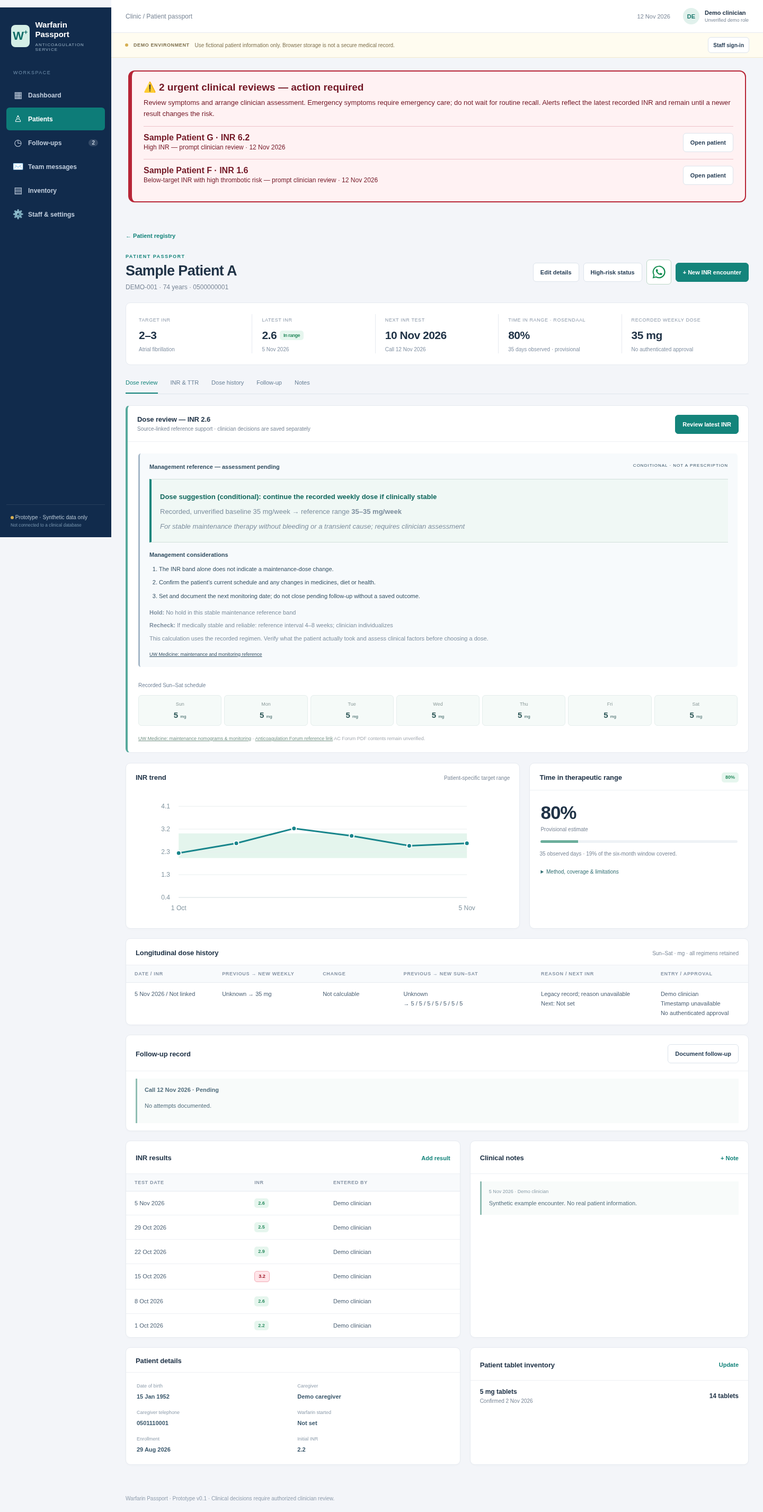
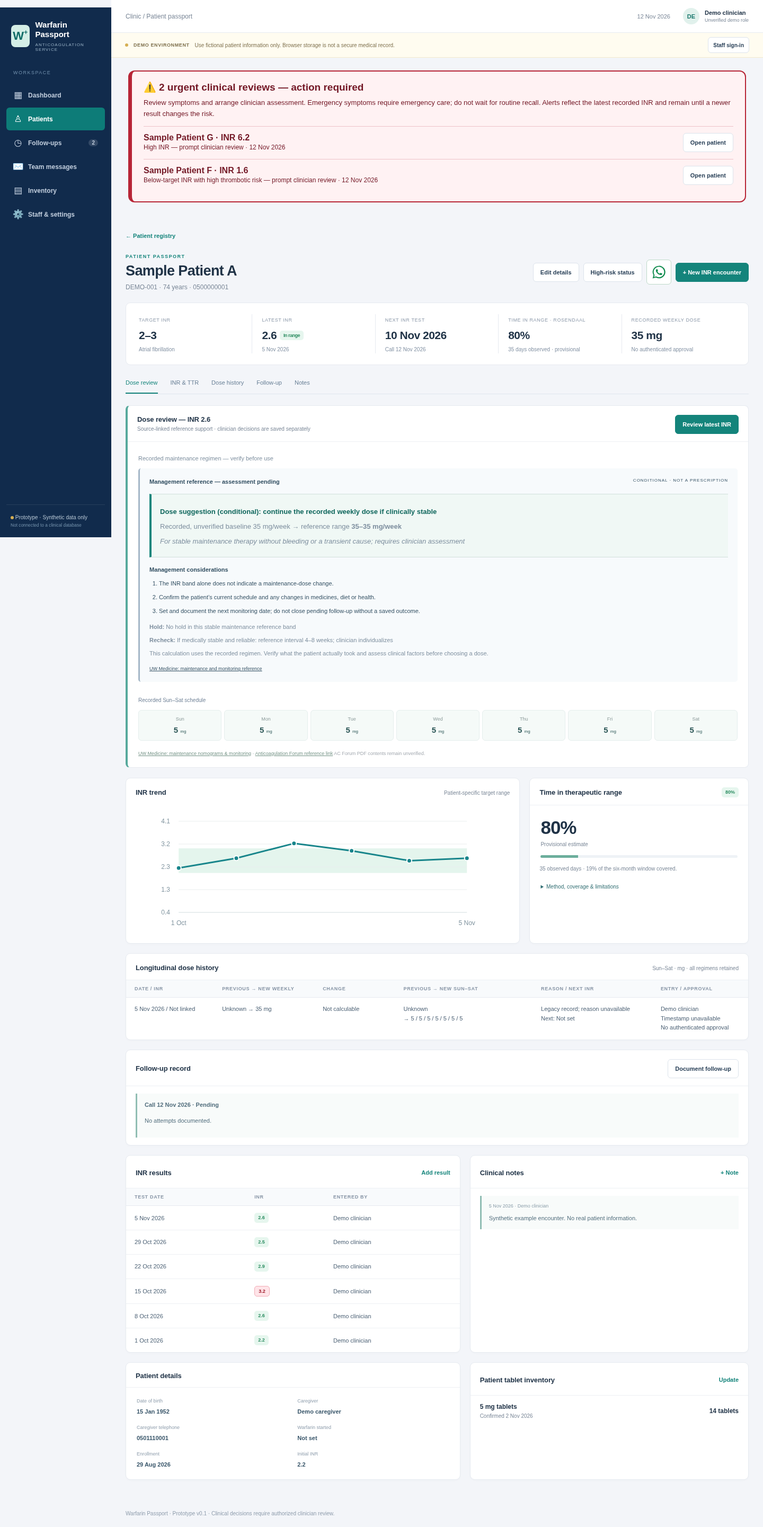
Preserve pre-decision regimen and saved clinical context in passport review

diff --git a/app.js b/app.js
@@ -1,3 +1,4 @@
+import {reviewBaseline,latestAssessment,latestResult} from './review-context.mjs?v=management-4';
 import {urgentCases,urgentCase} from './urgent-cases.mjs?v=management-4';
 import {additionalPatients,mergeAdditionalPatients} from './additional-cases.mjs?v=management-4';
 import {ttrForPatient,clinicTTR} from './ttr.mjs';
@@ -64,7 +65,7 @@ async function sendTeamMessage(form){
 }
 
 function getPatient(){return patients.find(p=>p.mrn===selectedMRN)}
-function latest(p){return [...p.results].sort((a,b)=>b.date.localeCompare(a.date))[0]}
+function latest(p){return latestResult(p)}
 function currentDose(p){return p.dosePlans?.at(-1)?.daily||[0,0,0,0,0,0,0]}
 function rangeStatus(p,val){if(val===undefined||val===null||p.targetLow==null||p.targetHigh==null)return ['Target missing','neutral'];if(val<p.targetLow)return ['Below target','out-of-range'];if(val>p.targetHigh)return ['Above target','out-of-range'];return ['In range','good']}
 function toast(s){const t=document.querySelector('#toast');t.textContent=s;t.classList.add('show');clearTimeout(toast.timer);toast.timer=setTimeout(()=>t.classList.remove('show'),3200)}
@@ -94,7 +95,7 @@ function reviewResultMarkup(r,weekly){
  const confirmed=r.percentRange,reference=confirmed?{percentRange:confirmed,weeklyRange:r.weeklyRange}:r.reference,range=reference?.percentRange;
  return `<div class="nomogram-result ${e(r.status)}"><div class="nomogram-title"><b>${e(r.title)}</b><span>${confirmed?'REFERENCE ONLY':'CONDITIONAL · NOT A PRESCRIPTION'}</span></div>${range?`<div class="reference-band"><p class="reference-dose">${range[0]===0&&range[1]===0?'Dose suggestion (conditional): continue the recorded weekly dose if clinically stable':`Dose suggestion (conditional): ${range[0]>=0?'increase':range[1]<=0?'decrease':'change'} weekly dose by ${range[0]<0?Math.abs(range[1]):range[0]}–${range[0]<0?Math.abs(range[0]):range[1]}%`}</p>${reference.weeklyRange?`<p>${reference.baselineVerified||confirmed?'Verified':'Recorded, unverified'} baseline ${money(weekly)} mg/week → reference range <b>${money(reference.weeklyRange[0])}–${money(reference.weeklyRange[1])} mg/week</b>${range[0]!==range[1]?` · <b>midpoint example ${money(r.midpoint??reference.midpoint)} mg/week</b> (${Math.abs((range[0]+range[1])/2)}% ${range[1]<=0?'decrease':'increase'})`:''}</p>`:'<p>Verify the actual previous regimen to calculate the corresponding weekly mg range.</p>'}${!confirmed?`<p class="reference-condition">${e(reference.condition||'Requires individual clinician assessment')}</p>`:''}</div>`:''}${r.managementSteps?.length?`<h4>Management considerations</h4><ol class="management-list">${r.managementSteps.map(step=>`<li>${e(step)}</li>`).join('')}</ol>`:''}<p><b>Hold:</b> ${e(r.hold)}</p><p><b>Recheck:</b> ${e(r.recheck)}</p>${r.messages.map(m=>`<p>${e(m)}</p>`).join('')}<div class="management-sources"><a href="${UW_SOURCE}" target="_blank" rel="noopener">UW Medicine: maintenance and monitoring reference</a>${r.extraSource?` · <a href="${r.extraSource}" target="_blank" rel="noopener">Reversal / emergency guidance</a>`:''}</div></div>`;
 }
-function updateDoseReview(){const output=document.querySelector('#reference-output'),form=document.querySelector('#modal-form');if(!output||!form)return;const fd=new FormData(form),p=getPatient(),weekly=sumDose(currentDose(p)),r=doseReview({inr:fd.get('inr'),low:p.targetLow,high:p.targetHigh,weekly,testDate:fd.get('inrDate'),today:TODAY,bleeding:fd.get('bleeding'),missed:fd.get('missed'),interactions:fd.get('interactions'),illness:fd.get('illness'),recentChange:fd.get('recentChange'),baselineConfirmed:fd.get('baselineConfirmed'),mechanicalValve:/mechanical|prosthetic/i.test(p.diagnosis),riskLevel:p.riskLevel,riskCategory:p.riskCategory,riskReason:p.riskReason});output.innerHTML=reviewResultMarkup(r,weekly);const daily=DAYS.map((_,i)=>Number(fd.get('dose'+i))),total=sumDose(daily),expected=Number(fd.get('weeklyMg'));document.querySelector('#daily-total').textContent=`Daily doses total ${money(total)} mg/week ${Math.abs(total-expected)<0.01?'✓':'— does not match entered weekly dose'}`;}
+function updateDoseReview(){const output=document.querySelector('#reference-output'),form=document.querySelector('#modal-form');if(!output||!form)return;const fd=new FormData(form),p=getPatient(),weekly=modalReviewing?reviewBaseline(p,latest(p)).weekly:sumDose(currentDose(p)),r=doseReview({inr:fd.get('inr'),low:p.targetLow,high:p.targetHigh,weekly,testDate:fd.get('inrDate'),today:TODAY,bleeding:fd.get('bleeding'),missed:fd.get('missed'),interactions:fd.get('interactions'),illness:fd.get('illness'),recentChange:fd.get('recentChange'),baselineConfirmed:fd.get('baselineConfirmed'),mechanicalValve:/mechanical|prosthetic/i.test(p.diagnosis),riskLevel:p.riskLevel,riskCategory:p.riskCategory,riskReason:p.riskReason});output.innerHTML=reviewResultMarkup(r,weekly);const daily=DAYS.map((_,i)=>Number(fd.get('dose'+i))),total=sumDose(daily),expected=Number(fd.get('weeklyMg'));document.querySelector('#daily-total').textContent=`Daily doses total ${money(total)} mg/week ${Math.abs(total-expected)<0.01?'✓':'— does not match entered weekly dose'}`;}
 
 function isHighRisk(p){return p?.riskLevel==='high';}
 function riskCategoryLabel(value){return {bleeding:'Bleeding',thrombosis:'Thrombosis',both:'Bleeding & thrombosis',other:'Other clinical risk'}[value]||'Clinical risk';}
@@ -102,7 +103,7 @@ function riskBadge(p){return isHighRisk(p)?`<span class="tag risk-badge" title="
 function riskFields(p={}){return `<fieldset class="span-2 risk-fields"><legend>Clinical priority</legend><div class="form-grid">${selectField('riskLevel','Monitoring priority',[['routine','Routine monitoring'],['high','High risk / closer review']],p.riskLevel||'routine')}${selectField('riskCategory','High-risk category',[['','Choose category'],['bleeding','Bleeding'],['thrombosis','Thrombosis'],['both','Bleeding and thrombosis'],['other','Other clinical risk']],p.riskCategory||'')}<div class="field span-2"><label for="f-riskReason">Reason for the high-risk flag</label><textarea id="f-riskReason" name="riskReason" rows="3" maxlength="1000">${e(p.riskReason||'')}</textarea></div>${field('riskReviewDate','Risk review date (optional)',p.riskReviewDate||'','date')}</div><p class="form-help">This is a staff-maintained clinical priority flag, not an automatically calculated risk score.</p></fieldset>`;}
 function updateRiskFields(){const form=document.querySelector('#modal-form'),high=form?.querySelector('[name=riskLevel]')?.value==='high';if(!form?.querySelector('[name=riskLevel]'))return;for(const name of ['riskCategory','riskReason','riskReviewDate']){const input=form.querySelector(`[name=${name}]`);if(input){input.disabled=!high;input.required=high&&name!=='riskReviewDate';}}}
 function riskPayload(fd){const riskLevel=fd.get('riskLevel')||'routine';if(riskLevel!=='high')return {riskLevel:'routine',riskCategory:'',riskReason:'',riskReviewDate:''};const riskCategory=fd.get('riskCategory'),riskReason=String(fd.get('riskReason')||'').trim();if(!['bleeding','thrombosis','both','other'].includes(riskCategory)||!riskReason)throw Error('Choose a high-risk category and document the reason');return {riskLevel,riskCategory,riskReason,riskReviewDate:fd.get('riskReviewDate')||''};}
-function patientManagement(p){return doseReview({inr:latest(p)?.value,low:p.targetLow,high:p.targetHigh,weekly:p.dosePlans.length?sumDose(currentDose(p)):0,testDate:latest(p)?.date,today:TODAY,mechanicalValve:/mechanical|prosthetic/i.test(p.diagnosis),riskLevel:p.riskLevel,riskCategory:p.riskCategory,riskReason:p.riskReason});}
+function patientManagement(p){return doseReview({...latestAssessment(p,latest(p)),inr:latest(p)?.value,low:p.targetLow,high:p.targetHigh,weekly:reviewBaseline(p,latest(p)).weekly,testDate:latest(p)?.date,today:TODAY,mechanicalValve:/mechanical|prosthetic/i.test(p.diagnosis),riskLevel:p.riskLevel,riskCategory:p.riskCategory,riskReason:p.riskReason});}
 
 function statsCard(label,value,hint,icon,clazz=''){return `<div class="stat ${clazz}"><div class="stat-line"><span class="stat-name">${e(label)}</span><span class="stat-icon">${icon}</span></div><strong class="stat-number">${e(value)}</strong><div class="stat-hint">${e(hint)}</div></div>`}
 function worklist(){return patients.flatMap(p=>p.followups.filter(f=>f.status!=='Completed').map(f=>({...f,name:p.name,mrn:p.mrn,lastInr:latest(p)?.value,lastContact:f.attempts?.at(-1),riskLevel:p.riskLevel,riskCategory:p.riskCategory,riskReason:p.riskReason,priority:urgentCase(p,TODAY)?.rank??9}))).sort((a,b)=>a.priority-b.priority||Number(b.callDate<=TODAY)-Number(a.callDate<=TODAY)||Number(isHighRisk(b))-Number(isHighRisk(a))||a.callDate.localeCompare(b.callDate))}
@@ -120,11 +121,11 @@ function pagePatients(){const term=search.toLowerCase();let found=patients.filte
 function chart(p){const data=[...p.results].sort((a,b)=>a.date.localeCompare(b.date));if(!data.length)return'<div class="empty">No INR results yet.</div>';const W=620,H=230,px=38,top=20,bottom=38;const yMin=Math.min(0.5,p.targetLow??2,...data.map(d=>d.value))-.1,yMax=Math.max(4,p.targetHigh??3,...data.map(d=>d.value))+.1;const sx=i=>px+(W-2*px)*(data.length===1?.5:i/(data.length-1)),sy=n=>top+(H-top-bottom)*(yMax-n)/(yMax-yMin),points=data.map((d,i)=>`${sx(i)},${sy(d.value)}`).join(' ');const band=p.targetLow!=null&&p.targetHigh!=null?`<rect x="${px}" y="${sy(p.targetHigh)}" width="${W-2*px}" height="${sy(p.targetLow)-sy(p.targetHigh)}" fill="#e4f5ed"/>`:'';
  return `<svg viewBox="0 0 ${W} ${H}" role="img" aria-label="INR trend for the synthetic patient"><line x1="${px}" y1="${H-bottom}" x2="${W-px}" y2="${H-bottom}" stroke="#cfdde1"/>${band}${[0,1,2,3,4].map(i=>{const y=top+(H-top-bottom)*i/4;return `<line x1="${px}" y1="${y}" x2="${W-px}" y2="${y}" stroke="#e9eeee"/><text x="5" y="${y+4}" font-size="12" fill="#8295a0">${(yMax-(yMax-yMin)*i/4).toFixed(1)}</text>`}).join('')}<polyline fill="none" stroke="#18858b" stroke-width="3" stroke-linecap="round" stroke-linejoin="round" points="${points}"/>${data.map((d,i)=>`<circle cx="${sx(i)}" cy="${sy(d.value)}" r="4.5" fill="#18858b" stroke="white" stroke-width="2"><title>${e(d.date)}: ${e(d.value)}</title></circle>`).join('')}${data.filter((_,i)=>i===0||i===data.length-1).map(d=>{const i=data.indexOf(d);return `<text x="${sx(i)}" y="${H-14}" text-anchor="middle" font-size="12" fill="#8295a0">${e(dateLabel(d.date).slice(0,6))}</text>`}).join('')}</svg>`}
 function pagePassport(){
- const p=getPatient();if(!p)return pagePatients();const result=latest(p),d=currentDose(p),follow=p.followups.at(-1),ttr=ttrForPatient(p,TODAY),dose=p.dosePlans.at(-1),allNotes=[...p.encounters.map(v=>({date:v.date,text:v.note,by:v.enteredBy})),...p.notes.map(v=>({date:v.date,text:v.text,by:v.by}))].filter(v=>v.text).sort((a,b)=>b.date.localeCompare(a.date));
+ const p=getPatient();if(!p)return pagePatients();const result=latest(p),d=currentDose(p),follow=p.followups.at(-1),ttr=ttrForPatient(p,TODAY),dose=p.dosePlans.at(-1),baseline=reviewBaseline(p,result),allNotes=[...p.encounters.map(v=>({date:v.date,text:v.note,by:v.enteredBy})),...p.notes.map(v=>({date:v.date,text:v.text,by:v.by}))].filter(v=>v.text).sort((a,b)=>b.date.localeCompare(a.date));
  return `<button class="back-link" data-navto="patients">← Patient registry</button><header class="passport-header"><div><p class="eyebrow">PATIENT PASSPORT</p><h1>${e(p.name)}</h1><p>${e(p.mrn)} · ${ageFromDOB(p.dob,TODAY)} years · ${e(p.phone||'No telephone')}</p></div><div class="mini-actions"><button class="btn" data-modal="edit">Edit details</button><button class="btn" data-modal="risk">High-risk status</button><button class="btn whatsapp-btn" data-modal="whatsapp" aria-label="WhatsApp — setup pending" title="WhatsApp — setup pending"><svg viewBox="0 0 32 32" aria-hidden="true"><path fill="currentColor" d="M16 .8A15.1 15.1 0 0 0 3 23.5L.8 31.2l7.9-2.1A15.2 15.2 0 1 0 16 .8Zm0 27.7a12.5 12.5 0 0 1-6.4-1.8l-.5-.3-4.7 1.3 1.3-4.6-.3-.5A12.6 12.6 0 1 1 16 28.5Zm6.9-9.4c-.4-.2-2.2-1.1-2.5-1.2-.4-.1-.6-.2-.9.2-.2.4-.9 1.2-1.1 1.4-.2.2-.4.3-.8.1-.4-.2-1.6-.6-3-1.9-1.1-1-1.9-2.2-2.1-2.6-.2-.4 0-.6.2-.8l.6-.7.4-.6c.1-.2 0-.5 0-.7l-1.1-2.7c-.3-.7-.6-.6-.9-.6h-.7c-.3 0-.7.1-1 .5s-1.3 1.3-1.3 3.1 1.4 3.6 1.6 3.9c.2.2 2.7 4.1 6.5 5.7.9.4 1.6.6 2.2.8.9.3 1.7.2 2.3.1.7-.1 2.2-.9 2.5-1.8.3-.9.3-1.7.2-1.8-.1-.2-.3-.3-.7-.5Z"/></svg><span class="sr-only">WhatsApp</span></button><button class="btn primary" data-modal="encounter">+ New INR encounter</button></div></header>${isHighRisk(p)?`<section class="patient-risk-banner"><div><b>High-risk patient · ${e(riskCategoryLabel(p.riskCategory))}</b><p>${e(p.riskReason)}</p><small>Review: ${dateLabel(p.riskReviewDate)}${p.riskUpdatedBy?' · Recorded by '+e(p.riskUpdatedBy):''}</small></div><button class="btn" data-modal="risk">Review flag</button></section>`:''}
  <section class="passport-metrics"><div><small>Target INR</small><strong>${e(p.targetLow??'—')}–${e(p.targetHigh??'—')}</strong><span>${e(p.diagnosis)}</span></div><div><small>Latest INR</small><strong>${e(result?.value??'—')} ${result?tag(...rangeStatus(p,result.value)):''}</strong><span>${dateLabel(result?.date)}</span></div><div><small>Next INR test</small><strong>${dateLabel(follow?.inrDate)}</strong><span>Call ${dateLabel(follow?.callDate)}</span></div><div><small>Time in range · Rosendaal</small><strong>${ttr.percent===null?'—':ttr.percent+'%'}</strong><span>${ttr.percent===null?ttr.reason:`${Math.round(ttr.observedDays)} days observed · ${ttr.provisional?'provisional':'6-month maintenance'}`}</span></div><div><small>Recorded weekly dose</small><strong>${dose?money(sumDose(d))+' mg':'—'}</strong><span>${dose?.approvedBy?'Approved by '+e(dose.approvedBy):'No authenticated approval'}</span></div></section>
  <nav class="passport-tabs" aria-label="Passport sections"><a href="#dose-review">Dose review</a><a href="#monitoring">INR & TTR</a><a href="#history">Dose history</a><a href="#followup">Follow-up</a><a href="#notes">Notes</a></nav>
- <section class="dose-review-card" id="dose-review"><div class="card-header"><div><h2>Dose review ${result?'— INR '+e(result.value):''}</h2><small>Source-linked reference support · clinician decisions are saved separately</small></div><button class="btn primary" data-modal="review">Review latest INR</button></div><div class="review-summary"><div class="review-next">${reviewResultMarkup(patientManagement(p),sumDose(d))}</div><div><span class="label">Recorded Sun–Sat schedule</span><div class="grid-days">${DAYS.map((day,i)=>`<div class="dose-day"><small>${day}</small><strong>${e(d[i])} <span>mg</span></strong></div>`).join('')}</div></div></div>${result&&result.value>=4.5?'<div class="risk-callout">High INR: prompt clinician review. Do not wait for the routine follow-up date.</div>':''}<p class="source-line"><a href="${UW_SOURCE}" target="_blank" rel="noopener">UW Medicine: maintenance nomograms & monitoring</a> · <a href="${ACF_SOURCE}" target="_blank" rel="noopener">Anticoagulation Forum reference link</a> <span>AC Forum PDF contents remain unverified.</span></p></section>
+ <section class="dose-review-card" id="dose-review"><div class="card-header"><div><h2>Dose review ${result?'— INR '+e(result.value):''}</h2><small>Source-linked reference support · clinician decisions are saved separately</small></div><button class="btn primary" data-modal="review">Review latest INR</button></div><div class="review-summary"><div class="review-next"><p class="form-help">${e(baseline.kind)}</p>${reviewResultMarkup(patientManagement(p),baseline.weekly)}${baseline.decision?`<div class="saved-decision"><b>Saved clinician-entered decision: ${money(baseline.decision.weekly??sumDose(baseline.decision.daily))} mg/week</b><p>${e(baseline.decision.reason||'')} · ${baseline.decision.approvedBy?'Authenticated approval: '+e(baseline.decision.approvedBy):'No authenticated approval'}</p><p>The reference above uses the previous regimen. It does not adjust this saved dose again.</p></div>`:''}</div><div><span class="label">Recorded Sun–Sat schedule</span><div class="grid-days">${DAYS.map((day,i)=>`<div class="dose-day"><small>${day}</small><strong>${e(d[i])} <span>mg</span></strong></div>`).join('')}</div></div></div>${result&&result.value>=4.5?'<div class="risk-callout">High INR: prompt clinician review. Do not wait for the routine follow-up date.</div>':''}<p class="source-line"><a href="${UW_SOURCE}" target="_blank" rel="noopener">UW Medicine: maintenance nomograms & monitoring</a> · <a href="${ACF_SOURCE}" target="_blank" rel="noopener">Anticoagulation Forum reference link</a> <span>AC Forum PDF contents remain unverified.</span></p></section>
  <section id="monitoring" class="section-grid monitor-grid"><section class="card chart-card"><div class="card-header"><h2>INR trend</h2><small>Patient-specific target range</small></div><div class="chart-container">${chart(p)}</div></section><section class="card ttr-detail"><div class="card-header"><h2>Time in therapeutic range</h2>${ttrBadge(ttr)}</div><div class="ttr-value">${ttr.percent===null?'—':ttr.percent+'%'}<span>${ttr.provisional?'Provisional estimate':'Six-month maintenance estimate'}</span></div><div class="ttr-coverage"><span style="width:${ttr.coverage}%"></span></div><p class="card-caption">${Math.round(ttr.observedDays)} observed days · ${ttr.coverage}% of the six-month window covered.</p><details class="method-details"><summary>Method, coverage & limitations</summary><p>Linear interpolation between results, with no extrapolation beyond them. Intervals over 56 days are excluded. First six weeks excluded only when warfarin start date is known. Current target is used; a changed historical target needs review. Clinic mean excludes provisional estimates.</p><p>${e(ttr.reason||'')}${ttr.excludedGaps?' · '+ttr.excludedGaps+' long interval(s) excluded.':''}</p><a href="https://www.nice.org.uk/guidance/ng196/chapter/recommendations#assessing-anticoagulation-control-with-vitamin-k-antagonists" target="_blank" rel="noopener">NICE: assessing VKA control</a></details></section></section>
  <div id="history">${historyPanel(p)}</div><div id="followup">${followupPanel(p)}</div>
  <div class="section-grid"><section class="card"><div class="card-header"><h2>INR results</h2><button class="inline-action" data-modal="encounter">Add result</button></div><div class="table-wrap"><table><thead><tr><th>Test date</th><th>INR</th><th>Entered by</th></tr></thead><tbody>${[...p.results].sort((a,b)=>b.date.localeCompare(a.date)).map(r=>`<tr><td>${dateLabel(r.date)}</td><td>${tag(String(r.value),rangeStatus(p,r.value)[1])}</td><td>${e(r.enteredBy)}</td></tr>`).join('')}</tbody></table></div></section><section id="notes" class="card"><div class="card-header"><h2>Clinical notes</h2><button class="inline-action" data-modal="note">+ Note</button></div>${allNotes.map(n=>`<div class="note-block"><small>${dateLabel(n.date)} · ${e(n.by)}</small>${e(n.text)}</div>`).join('')||'<div class="empty">No clinical notes.</div>'}</section></div>
@@ -156,8 +157,8 @@ function render(){let urgentRoot=document.querySelector('#urgent-alerts');if(!ur
 function field(name,label,value='',type='text',attrs=''){return `<div class="field"><label for="f-${name}">${e(label)}</label><input id="f-${name}" name="${name}" type="${type}" value="${e(value)}" ${attrs}></div>`}
 function textArea(name,label,value=''){return `<div class="field span-2"><label for="f-${name}">${e(label)}</label><textarea id="f-${name}" name="${name}" rows="3">${e(value)}</textarea></div>`}
 function modal(title,form,submitLabel='Save'){modalRoot.innerHTML=`<div class="modal-overlay"><div class="modal" role="dialog" aria-modal="true" aria-label="${e(title)}"><div class="modal-header"><h2>${e(title)}</h2><button class="modal-close" data-dismiss aria-label="Close">×</button></div><form id="modal-form"><div class="modal-body">${form}</div><div class="modal-actions"><button type="button" class="btn" data-dismiss>Cancel</button><button class="btn primary" type="submit">${e(submitLabel)}</button></div></form></div></div>`}
-let modalType='';
-function openModal(type){const reviewing=type==='review';if(reviewing)type='encounter';modalType=type;if(type==='reset-workspace'){if(!connected||staff?.role!=='admin')return;modal('Reset development workspace',`<p>This starts an empty active workspace and disables automatic fictional data. Existing clinical history and audit events remain archived. Staff accounts, passwords and configuration are preserved.</p>${field('confirmation','Type RESET DEVELOPMENT DATA','','text','required autocomplete="off"')}<label class="checkbox-line"><input name="confirmArchive" type="checkbox" required> I understand development records will leave the active workspace.</label>`,'Reset development workspace');return;}const p=getPatient();if(type==='risk'){modal('High-risk patient status',`<div class="form-grid">${riskFields(p)}</div>`,'Save risk status');updateRiskFields();return;}if(type==='patient'||type==='edit'){
+let modalType='',modalReviewing=false;
+function openModal(type){const reviewing=type==='review';modalReviewing=reviewing;if(reviewing)type='encounter';modalType=type;if(type==='reset-workspace'){if(!connected||staff?.role!=='admin')return;modal('Reset development workspace',`<p>This starts an empty active workspace and disables automatic fictional data. Existing clinical history and audit events remain archived. Staff accounts, passwords and configuration are preserved.</p>${field('confirmation','Type RESET DEVELOPMENT DATA','','text','required autocomplete="off"')}<label class="checkbox-line"><input name="confirmArchive" type="checkbox" required> I understand development records will leave the active workspace.</label>`,'Reset development workspace');return;}const p=getPatient();if(type==='risk'){modal('High-risk patient status',`<div class="form-grid">${riskFields(p)}</div>`,'Save risk status');updateRiskFields();return;}if(type==='patient'||type==='edit'){
  const editing=type==='edit';modal(editing?'Edit patient information':'Register synthetic patient',`<div class="form-grid">${field('mrn','MRN *',editing?p.mrn:'DEMO-', 'text',editing?'readonly':'required')}${field('name','Patient name *',editing?p.name:'', 'text','required')}${field('dob','Date of birth *',editing?p.dob:'','date','required')}${field('diagnosis','Diagnosis / indication *',editing?p.diagnosis:'','text','required')}${field('phone','Contact number',editing?p.phone:'')}${field('caregiver','Caregiver',editing?p.caregiver:'')}${field('caregiverPhone','Caregiver phone',editing?p.caregiverPhone:'')}${field('warfarinStartDate','Warfarin start date (if known)',editing?p.warfarinStartDate:'','date')}${field('enrollmentDate','Enrollment date',editing?p.enrollmentDate:TODAY,'date')}${field('enrollmentInr','INR on enrollment',editing?p.enrollmentInr:'','number','step="0.1" min="0" max="20"')}${field('targetLow','Target INR lower',editing?p.targetLow:'','number','step="0.1" min="0" max="20"')}${field('targetHigh','Target INR upper',editing?p.targetHigh:'','number','step="0.1" min="0" max="20"')}${riskFields(editing?p:{})}</div><div class="warning-box">Demonstration only: enter fictional identifiers and patient information.</div>`);updateRiskFields();return}
  if(type==='encounter'){
  const doses=currentDose(p),r=latest(p),contextOptions=[['unknown','Not assessed'],['no','No'],['yes','Yes']];
@@ -173,7 +174,7 @@ async function submitForm(fd){if(modalType==='reset-workspace'){if(!connected||s
  const updating=modalType==='edit';const mrn=String(fd.get('mrn')||'').trim().toUpperCase(),name=String(fd.get('name')||'').trim(),dob=fd.get('dob'),diagnosis=String(fd.get('diagnosis')||'').trim();if(!mrn||!name||!dob||!diagnosis)throw Error('MRN, name, date of birth, and diagnosis are required.');if(!updating&&patients.some(p=>p.mrn===mrn))throw Error('This MRN already exists.');if(dob>TODAY)throw Error('Date of birth cannot be in the future.');if(!mrn.startsWith('DEMO-'))throw Error('Use a DEMO- MRN in this prototype, never a real MRN.');
  const targetLow=fd.get('targetLow')===''?null:Number(fd.get('targetLow')),targetHigh=fd.get('targetHigh')===''?null:Number(fd.get('targetHigh'));if((targetLow===null)!==(targetHigh===null)||targetLow!==null&&targetLow>=targetHigh)throw Error('Enter a valid INR target range, or leave both fields empty.');const obj={mrn,name,dob,diagnosis,phone:fd.get('phone'),caregiver:fd.get('caregiver'),caregiverPhone:fd.get('caregiverPhone'),enrollmentDate:fd.get('enrollmentDate'),enrollmentInr:fd.get('enrollmentInr'),targetLow,targetHigh,warfarinStartDate:fd.get('warfarinStartDate')||'',...riskPayload(fd)};if(updating)Object.assign(getPatient(),obj);else patients.push({...obj,status:'Active',results:[],dosePlans:[],encounters:[],notes:[],inventory:[],followups:[]});selectedMRN=mrn;view='passport';
  }else if(modalType==='encounter'){
- const p=getPatient(),inr=Number(fd.get('inr')),inrDate=fd.get('inrDate'),nextInrDate=fd.get('nextInrDate'),daily=DAYS.map((_,i)=>Number(fd.get('dose'+i)));if(!Number.isFinite(inr)||inr<=0||inr>20)throw Error('Enter a valid INR result.');if(!inrDate||!nextInrDate)throw Error('Enter both INR test and next test dates.');if(nextInrDate<inrDate)throw Error('Next INR must not precede the current INR test.');if(daily.some(x=>!Number.isFinite(x)||x<0||x>100))throw Error('Enter valid non-negative daily dose values.');if(!String(fd.get('reason')||'').trim())throw Error('Enter the reason for the dose decision.');const id=globalThis.crypto?.randomUUID?.()||String(Date.now());p.results.push({id:'R-'+id,date:inrDate,value:inr,enteredBy:'Unverified demo staff',targetLow:p.targetLow,targetHigh:p.targetHigh});const reason=String(fd.get('reason')||'').trim();if(!reason)throw Error('Enter the reason for the dose decision.');p.dosePlans.push({id:'D-'+id,encounterId:'E-'+id,date:inrDate,...doseSummary(p.dosePlans.at(-1)?.daily ?? null,daily),inr,reason,nextInrDate,enteredAt:new Date().toISOString(),enteredBy:'Unverified demo staff',approvedBy:null,approvedAt:null});p.encounters.push({id:'E-'+id,date:inrDate,note:String(fd.get('note')||''),inr,nextInrDate,holdInstruction:String(fd.get('holdInstruction')||''),patientInstructions:String(fd.get('patientInstructions')||''),enteredBy:'Unverified demo staff'});p.followups.push({id:'F-'+id,inrDate:nextInrDate,callDate:addDays(nextInrDate,2),status:'Pending'});
+ const p=getPatient(),inr=Number(fd.get('inr')),inrDate=fd.get('inrDate'),nextInrDate=fd.get('nextInrDate'),daily=DAYS.map((_,i)=>Number(fd.get('dose'+i)));if(!Number.isFinite(inr)||inr<=0||inr>20)throw Error('Enter a valid INR result.');if(!inrDate||!nextInrDate)throw Error('Enter both INR test and next test dates.');if(nextInrDate<inrDate)throw Error('Next INR must not precede the current INR test.');if(daily.some(x=>!Number.isFinite(x)||x<0||x>100))throw Error('Enter valid non-negative daily dose values.');if(!String(fd.get('reason')||'').trim())throw Error('Enter the reason for the dose decision.');const id=globalThis.crypto?.randomUUID?.()||String(Date.now());p.results.push({id:'R-'+id,date:inrDate,value:inr,encounterId:'E-'+id,enteredAt:new Date().toISOString(),enteredBy:'Unverified demo staff',targetLow:p.targetLow,targetHigh:p.targetHigh});const reason=String(fd.get('reason')||'').trim();if(!reason)throw Error('Enter the reason for the dose decision.');p.dosePlans.push({id:'D-'+id,encounterId:'E-'+id,date:inrDate,...doseSummary(p.dosePlans.at(-1)?.daily ?? null,daily),inr,reason,nextInrDate,enteredAt:new Date().toISOString(),enteredBy:'Unverified demo staff',approvedBy:null,approvedAt:null});p.encounters.push({id:'E-'+id,date:inrDate,note:String(fd.get('note')||''),inr,nextInrDate,holdInstruction:String(fd.get('holdInstruction')||''),patientInstructions:String(fd.get('patientInstructions')||''),reviewFactors:JSON.stringify(Object.fromEntries(['bleeding','missed','interactions','illness','recentChange','baselineConfirmed'].map(k=>[k,fd.get(k)]))),enteredBy:'Unverified demo staff'});p.followups.push({id:'F-'+id,inrDate:nextInrDate,callDate:addDays(nextInrDate,2),status:'Pending'});
  }else if(modalType==='followup'){const p=getPatient(),f=p.followups.find(x=>x.id===fd.get('followupId'));if(!f)throw Error('Select a pending follow-up');const attempt=followupAttempt(f,{id:crypto.randomUUID(),outcome:fd.get('outcome'),actions:fd.get('actions'),note:fd.get('note'),encounterId:fd.get('encounterId'),complete:fd.has('complete')},'Unverified demo staff',new Date().toISOString());(f.attempts ||= []).push(attempt);if(attempt.completed){f.status='Completed';f.completedAt=attempt.timestamp;}
  }else if(modalType==='inventory'){const p=getPatient(),strength=Number(fd.get('strength')),quantity=Number(fd.get('quantity'));if(!(strength>0&&quantity>=0&&Number.isInteger(quantity)))throw Error('Enter a valid strength and whole-tablet quantity.');const old=p.inventory.find(x=>x.strength===strength);if(old){old.quantity=quantity;old.date=fd.get('confirmedDate')}else p.inventory.push({strength,quantity,date:fd.get('confirmedDate')});
  }else if(modalType==='note'){const note=String(fd.get('note')||'').trim();if(!note)throw Error('Note cannot be blank.');getPatient().notes.push({id:String(Date.now()),date:fd.get('noteDate'),text:note,supersedes:fd.get('supersedes')||null,by:'Unverified demo staff'});}

diff --git a/styles.css b/styles.css
@@ -1762,3 +1762,4 @@ input[type=checkbox] {
 #urgent-alerts{margin:24px 32px 0}#urgent-alerts:empty{display:none}@media(max-width:600px){#urgent-alerts{margin:16px 14px 0}}
 .nomogram-result.review{color:#324f62;background:#f7fafc}.nomogram-result .reference-dose{color:#11685e;font-size:17px}.nomogram-result .reference-band p{font-size:13px}.nomogram-result .reference-condition{font-size:12px}
 .clinic-refresh{margin-bottom:12px;display:flex;gap:12px;align-items:center;font-size:12px;color:#607481}
+.saved-decision{padding:14px 18px;border:1px solid #abd5c9;background:#f1faf7;border-radius:8px;margin:14px 0}.saved-decision p{font-size:12px;margin:6px 0}

diff --git a/docs/CLINICAL_METHODS.md b/docs/CLINICAL_METHODS.md
@@ -30,6 +30,8 @@ Per the latest request, WhatsApp is a **button and setup placeholder only**. No 
 
 ## Urgent review alerts
 
-A prominent review queue appears across clinical pages for latest INR ≥4.5, INR <1.5, and below-target INR with a mechanical valve or staff-recorded high thrombotic risk. INR ≥10 is ordered first. These are review/escalation prompts, not diagnoses; all above/below-target badges are red, but not every abnormal value is labelled an emergency. Dated historical results are labelled for prompt confirmation of current status. A newer result can change the queue; simply opening a passport or completing a routine call cannot dismiss it. Staff document the actual actions in the passport/follow-up record. This is not a full critical-result acknowledgment and escalation service.
+A prominent review queue appears across clinical pages for recorded bleeding/emergency symptoms, latest INR ≥4.5 (or >4 for a 2–3 target), INR <1.5, and below-target INR with a mechanical valve or staff-recorded high thrombotic risk. INR ≥10 is ordered first. These are review/escalation prompts, not diagnoses; all above/below-target badges are red, but not every abnormal value is labelled an emergency. Dated historical results are labelled for prompt confirmation of current status. A newer result can change the queue; simply opening a passport or completing a routine call cannot dismiss it. Staff document the actual actions in the passport/follow-up record. This is not a full critical-result acknowledgment and escalation service.
 
 Connected clinical views refresh every 60 seconds while visible, except when a form is open or staff/messages are being edited. A manual Refresh clinic control and last-refresh time are shown; failures are visible. This is polling while the page is open, not a background notification guarantee.
+
+Saved INR reviews use the regimen **before** the linked decision, alongside the already-saved new dose and approval status. The newly adjusted dose is not reused as the baseline for the same INR. If that prior baseline is unavailable, no numerical weekly example is generated. Structured clinical context saved with the linked encounter informs the passport; recorded bleeding/emergency concerns override routine calculations and enter the urgent queue.
